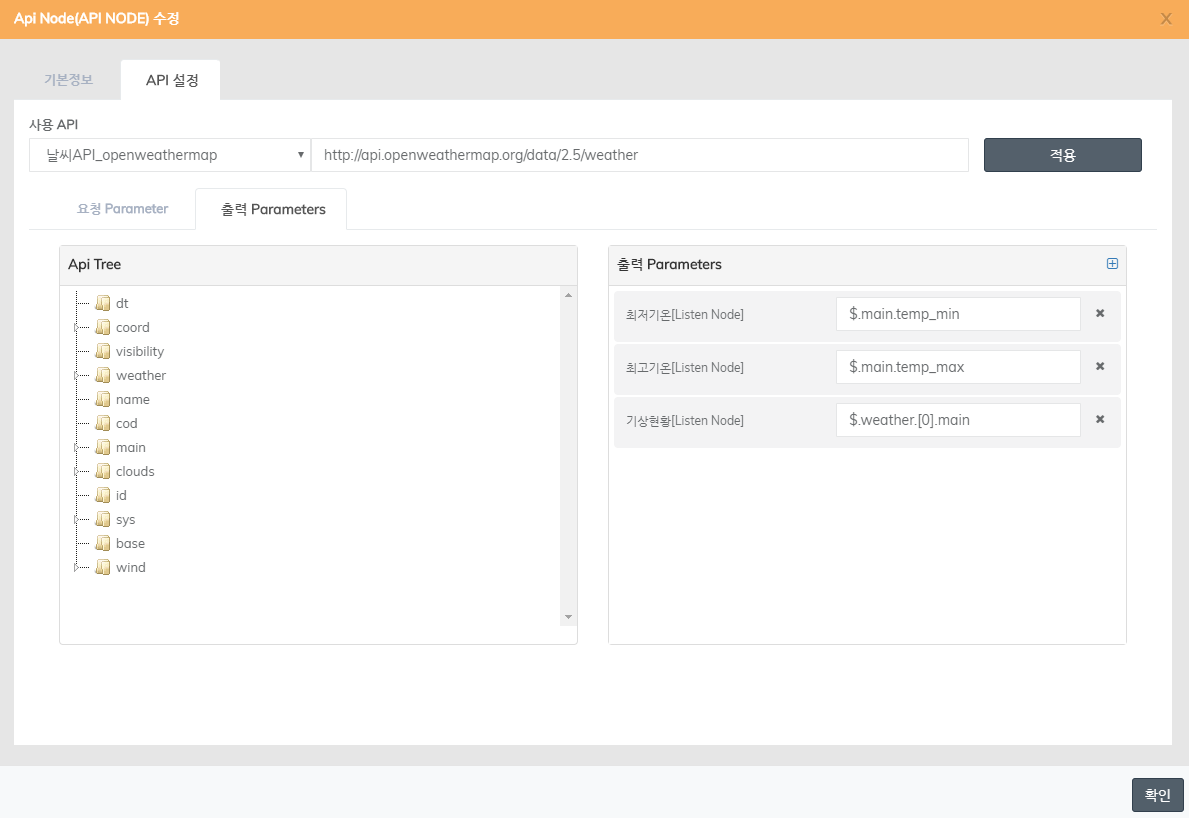
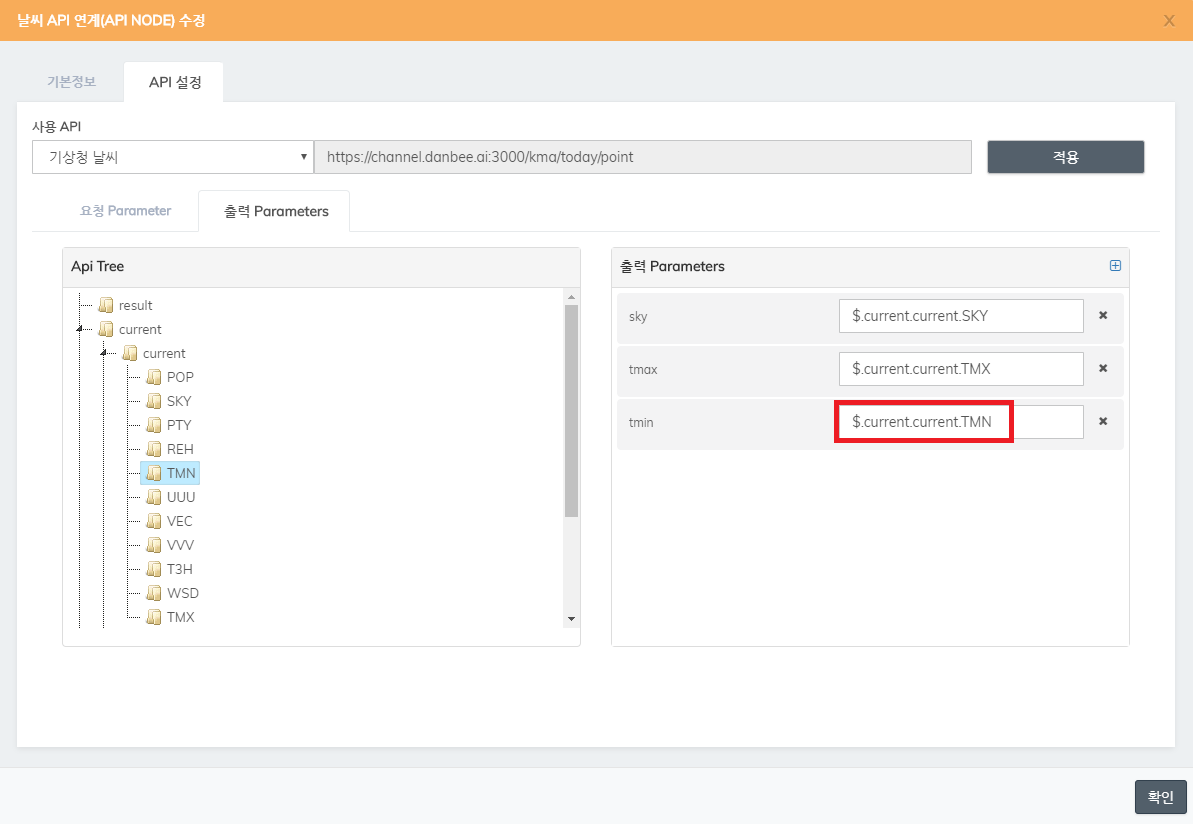
[speak] 파라미터 내용 추가

diff --git a/pages/danbeeDoc/chatflow_api.md b/pages/danbeeDoc/chatflow_api.md
@@ -74,13 +74,22 @@ API 서비스로 Request를 보냈다면 결과를 받게 될 것입니다.
 
 ### 샘플 시나리오 (오늘 날씨 어때?)
 
+#### 샘플 시나리오 설계
+
 오늘 날씨에 대한 의도를 파악하고 API노드를 통해 '기상청'과 같이 날씨 컨텐츠를 제공하는 서비스와 연계를 하고 그 결과를 답변하는 시나리오로 구성되어 있습니다.
 
 {% include image.html file="chatflow/Chatflow_sample_weather.png" max-width="900" caption="샘플 시나리오(오늘날씨 어때?)" %}
 
-API 노드에 날씨 OpenAPI 서비스 연계 설정을 하고 아래와 같이 '최고기온', '최저기온', '기상현황' 출력 Parameter를 매핑 설정합니다.
+#### 파라미터 매핑
+
+좌측에 API를 통해 조회된 Tree 구조의 정보에서 사용하고자 하는 우측 파라미터에 드래그 매핑 설정한다.
+드래그 매핑을 하게 되면 Tree 구조에서 선택한 파라미터의 위치가 JsonPath 형태로 자동적으로 표시가 됩니다.
+
+{% include image.html file="chatflow/Chatflow_api_drap.png" max-width="900" caption="출력 파라미터 드래그 매핑 설정" %}
 
 {% include image.html file="chatflow/Chatflow_api_output.png" max-width="900" caption="API노드 출력 Parameters" %}
+
+#### 답변 메시지 설정
 
 Speak 노드에서 답변 메시지와 함께 API 노드에서 얻은 출력 Parameter들을 아래 그림과 같이 설정합니다.
 
